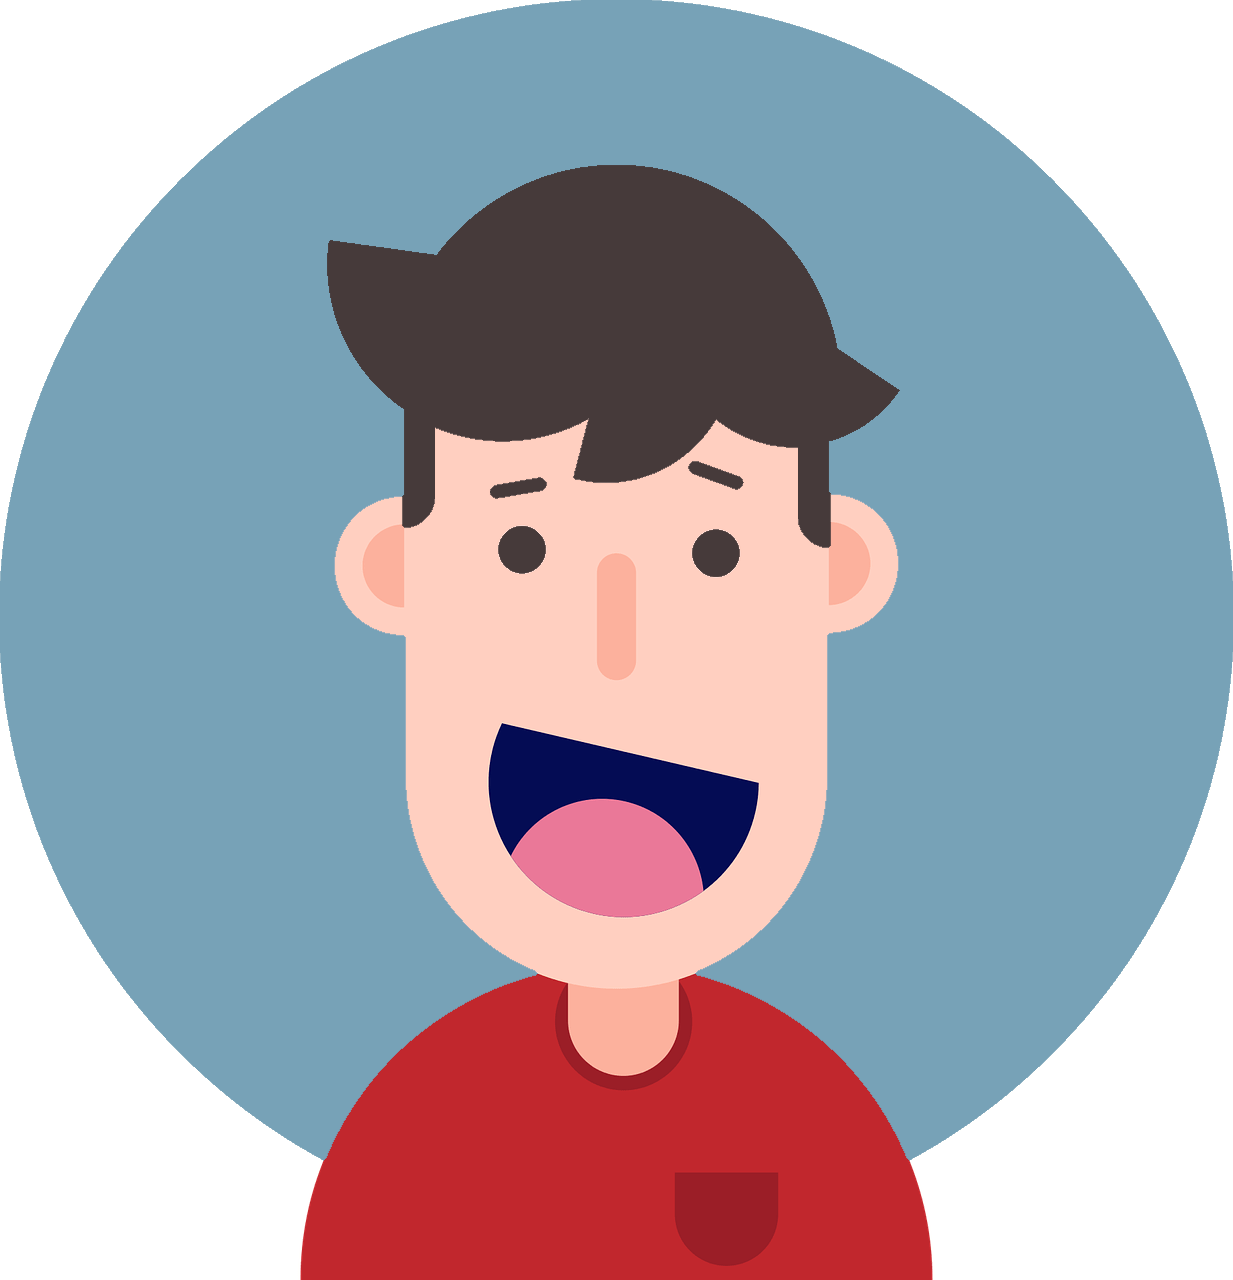
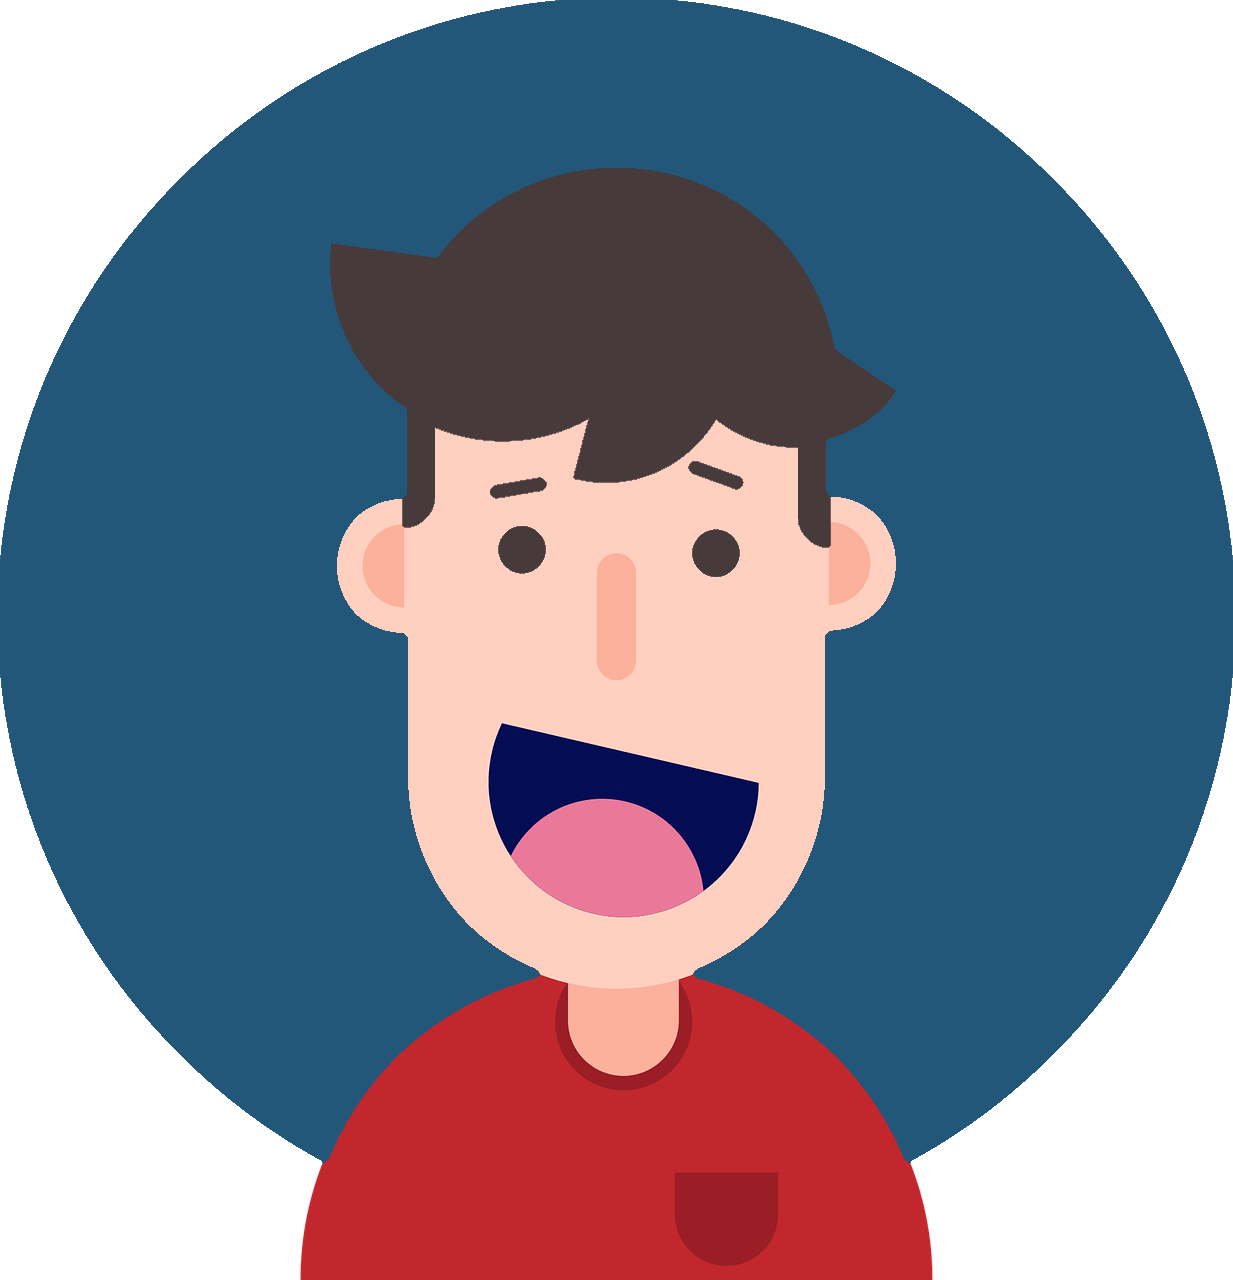
added projects and change color team

diff --git a/index.html b/index.html
@@ -48,7 +48,7 @@
 <div class="about">
       <p>Hi, my name is Kirby Lim. I studied Computer Programming at Seneca College Toronto. 
         I specialized in Web Development and SEO. 
-        I have also taught myself the Digital Marketing practices. I have earned few certificates and have successfully launched several ad campaigns to promote my web projects. 
+        I have also taught myself Digital Marketing. I have earned few certificates and have successfully launched several ad campaigns to promote my web projects. 
         I love sports and I enjoy a friendly competition. 
         I am currently looking for a work opportunity where I can prove my ability, talent and skills.</p>
       </div>
@@ -90,14 +90,6 @@
       <h1>Projects</h1>
   
 
-      <figure class="snip1534"><img src="./images/pokemon-website.PNG" alt="pokemon-website" />
-        <figcaption>
-          <h3>Pokemon API</h3>
-          <h5>Website</h5>
-        </figcaption>
-        <a href="https://limkxrby.github.io/Pokemon"></a>
-      </figure>
-
       <figure class="snip1534"><img src="./images/nft-website.PNG" alt="nft-website" />
         <figcaption>
           <h3>NFT Minting</h3>
@@ -113,8 +105,11 @@
         <a href="https://productioncommunity.publicmobile.ca/t5/The-Lounge/I-made-an-EMAIL-Newsletter/td-p/831821?lightbox-message-images-831821=64606i474E4F311475B1D6"></a>
       </figure>
 
-      <iframe style="border: 1px solid rgba(0, 0, 0, 0.1);" width="800" height="450" src="https://www.figma.com/embed?embed_host=share&url=https%3A%2F%2Fwww.figma.com%2Ffile%2FdntsUBd8HcbsEfreYavxTf%2Fcarslot%3Fnode-id%3D0%253A1" allowfullscreen></iframe>
-
+     <!-- *********** FIGMA *********** -->
+     <iframe style="border: 1px solid rgba(0, 0, 0, 0.1);" width="900" height="450" src="https://www.figma.com/embed?embed_host=share&url=https%3A%2F%2Fwww.figma.com%2Ffile%2Fa2hIrmtowrhOgzuVL1SyZK%2FUntitled%3Fnode-id%3D0%253A1" allowfullscreen></iframe>
+     <iframe style="border: 1px solid rgba(0, 0, 0, 0.1);" width="900" height="450" src="https://www.figma.com/embed?embed_host=share&url=https%3A%2F%2Fwww.figma.com%2Ffile%2FL4vAUPSVi6oycbgK5KbC4Y%2FUntitled%3Fnode-id%3D0%253A1" allowfullscreen></iframe>
+      <iframe style="border: 1px solid rgba(0, 0, 0, 0.1);" width="900" height="450" src="https://www.figma.com/embed?embed_host=share&url=https%3A%2F%2Fwww.figma.com%2Ffile%2FdntsUBd8HcbsEfreYavxTf%2Fcarslot%3Fnode-id%3D0%253A1" allowfullscreen></iframe>
+      <iframe style="border: 1px solid rgba(0, 0, 0, 0.1);" width="900" height="450" src="https://www.figma.com/embed?embed_host=share&url=https%3A%2F%2Fwww.figma.com%2Ffile%2FrmDBKQHbptuP1F15fALzLc%2Frentcr-mobile-by-limkxrby%3Fnode-id%3D0%253A1" allowfullscreen></iframe>
   
     </section>
 

diff --git a/assets/css/style.css b/assets/css/style.css
@@ -85,7 +85,7 @@ a {
   font-size: 2rem;
   margin: 0;
   letter-spacing: 1rem;
-  background-color: #81b0c6;
+  background-color: #22577a;
   color: #eee;
 
 }
@@ -93,7 +93,7 @@ a {
 .et-slide-projects h2,
 .et-hero-tabs h2,
 .et-slide h2 {
-background-color: #81b0c6;
+background-color: #22577a;
 color: #eee;
 }
 
@@ -138,7 +138,7 @@ color: #eee;
 }
 .et-hero-tab:hover {
   color: white;
-  background: #81b0c6;/* hsla(240, 150%, 15%, 0.5); *rgba(102, 177, 241, 0.8); */
+  background: #22577a;/* hsla(240, 150%, 15%, 0.5); *rgba(102, 177, 241, 0.8); */
   transition: all 0.5s ease-out;
   all: 300ms ease-out;
 }
@@ -148,7 +148,7 @@ color: #eee;
   bottom: 0;
   width: 0;
   height: 6px;
-  background: #81b0c6;
+  background: #22577a;
   transition: left 0.3s ease;
 }
 
@@ -331,7 +331,7 @@ ul.social-icons {
 .fa-twitter:hover {
   color: #FFF;
  /* color:#00aced; */
-  background-color:  #81b0c6;
+  background-color:  #22577a;
 }
 
 .fa-linkedin {
@@ -341,7 +341,7 @@ ul.social-icons {
 .fa-linkedin:hover {
   color: #FFF;
   /* color:#0073a4; */
-    background-color:  #81b0c6;
+    background-color:  #22577a;
 }
 .fa-github {
   padding:10px 14px;
@@ -350,7 +350,7 @@ ul.social-icons {
 .fa-github:hover {
  /* color: #5a32a3; */
  color: #FFF;
-  background-color:  #81b0c6;
+  background-color:  #22577a;
 
 }
 
@@ -363,8 +363,8 @@ ul.social-icons {
   display: inline-block;
   overflow: hidden;
   margin: 10px;
-  min-width: 780px;
-  max-width: 105px;
+  min-width: 860px;
+  max-width: 480px;
   width: 100%;
   color: #ffffff;
   text-align: left;
@@ -398,7 +398,7 @@ ul.social-icons {
   display: flexbox;
   flex-direction: column;
   justify-content: center;
-  background-color: #81b0c6;
+  background-color: #22577a;
   padding: 15px;
 }
 
@@ -522,7 +522,7 @@ form { max-width:420px; margin:50px auto; }
   border-radius: 5px;
   line-height: 22px;
   background-color: transparent;
-  border:2px solid #81b0c6;
+  border:2px solid #22577a;
   transition: all 0.3s;
   padding: 13px;
   margin-bottom: 15px;
@@ -531,7 +531,7 @@ form { max-width:420px; margin:50px auto; }
   outline:0;
 }
 
-.feedback-input:focus { border:2px solid #81b0c6; }
+.feedback-input:focus { border:2px solid #22577a; }
 
 textarea {
   height: 150px;
@@ -542,7 +542,7 @@ textarea {
 [type="submit"] {
   font-family: 'Montserrat', Arial, Helvetica, sans-serif;
   width: 100%;
-  background:#81b0c6;
+  background:#22577a;
   border-radius:5px;
   border:0;
   cursor:pointer;
@@ -554,7 +554,7 @@ textarea {
   margin-top:-4px;
   font-weight:700;
 }
-[type="submit"]:hover { background: #66B1F1; }
+[type="submit"]:hover { background: #22577a; }
 /*******Chevron *******/
 .gg-chevron-down-r {
     box-sizing: border-box;
